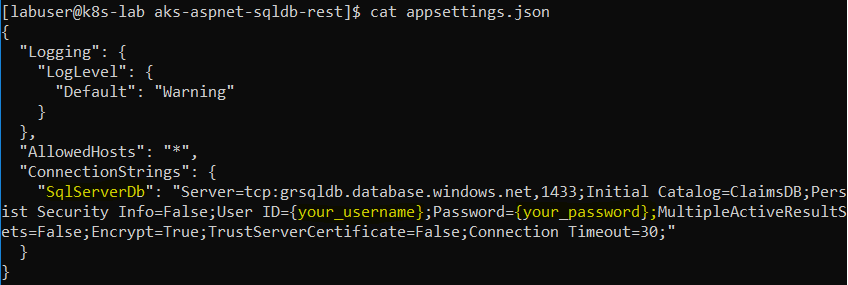
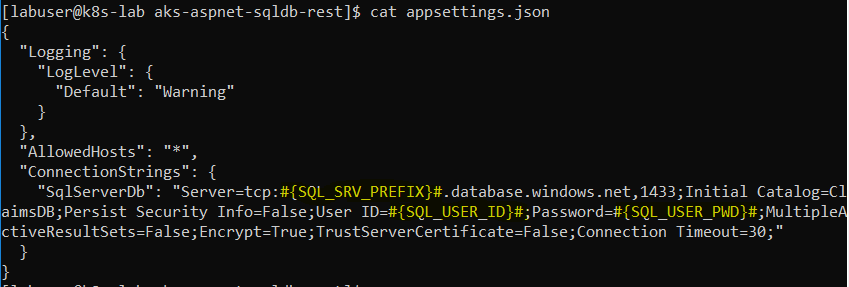
Updated Readme doc and images

diff --git a/README.md b/README.md
@@ -247,7 +247,7 @@ Before proceeding, login into the Linux VM using SSH.
     #
     ```
     
-    Edit the `appsettings.json` using **vi** or **nano** editor and configure the SQL Server connection string value.  Remember to specify correct values for **User ID** and **Password** in the connection string.  See the screenshot below.
+    Edit the `appsettings.json` file using **vi** or **nano** editor and configure the SQL Server connection string value.  Replace the variable tokens and specify correct values for **SQL_SRV_PREFIX**, **SQL_USER_ID** and **SQL_USER_PWD** in the connection string.  Do not include the curly braces and the hash symbols (#{ xxx }#) when specifying the values.  See the screenshot below.
 
     ![alt tag](./images/C-01.PNG)
 
@@ -324,13 +324,32 @@ Before proceeding, login into the Linux VM using SSH.
 
     You have now tested the Claims API microservice locally on this VM.  Press Control-C to exit out of the command (docker run ...) and get back to the terminal prompt.
 
-6.  Pull the Microsoft VSTS agent container from docker hub.  It will take approx. 20 minutes to download the image (Size ~ 10+ GB).  Take a coffee break.
+6.  Update the **appsettings.json** file. Push the updated source code to your GitHub repository.
+
+    In this step, we will reset the values for **User ID**, **Password** and *Azure SQL Server prefix* with variable tokens in the *appsettings.json* file.  We will inject these values when building the Claims API microservice in Azure DevOps in Section [F].
+
+    In in the Linux VM terminal window, edit the appsettings.json file using **vi** or **nano** editor and substitute variable tokens as shown (highlighted in yellow) in the screenshot below.
+    
+    ![alt tag](./images/C-01.PNG)
+
+    Commit and push your source code updates to your GitHub repository.  Follow the instructions in the command snippet below.
+    ```
+    # Configure the remote GitHub repository
+    $ git remote set-url origin git@github.com:ganrad/aks-aspnet-sqldb-rest.git
+    #
+    # Commit and push your changes to your GitHub repository
+    $ git commit -a -m "Updated appsettings.json"
+    $ git push
+    #
+    ```
+
+7.  Pull the Microsoft VSTS agent container from docker hub.  It will take approx. 20 minutes to download the image (Size ~ 10+ GB).  Take a coffee break.
     ```
     $ docker pull microsoft/vsts-agent
     $ docker images
     ```
 
-7.  Next, we will generate a Azure DevOps (VSTS) personal access token (PAT) to connect our DevOps build agent to your Azure DevOps account.  Login to Azure DevOps using your account ID. In the upper right, click on your profile image and click **security**.  
+8.  Next, we will generate a Azure DevOps (VSTS) personal access token (PAT) to connect our DevOps build agent to your Azure DevOps account.  Login to Azure DevOps using your account ID. In the upper right, click on your profile image and click **security**.  
 
     ![alt tag](./images/C-01.png)
 
@@ -340,7 +359,7 @@ Before proceeding, login into the Linux VM using SSH.
 
     In the next page, make sure to **copy and store** the PAT (token) into a file.  Keep in mind, you will not be able to retrieve this token again.  Incase you happen to lose or misplace the token, you will need to generate a new PAT and use it to reconfigure the VSTS build agent.  So save this PAT (token) to a file.
 
-8.  In the Linux VM terminal window, use the command below to start the VSTS build container.  Refer to the table below to set the build container parameter values correctly.
+9.  In the Linux VM terminal window, use the command below to start the VSTS build container.  Refer to the table below to set the build container parameter values correctly.
 
     Parameter | Value
     --------- | -----
